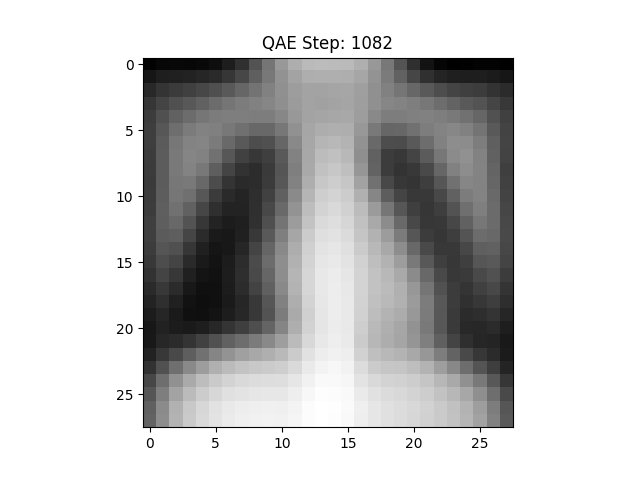
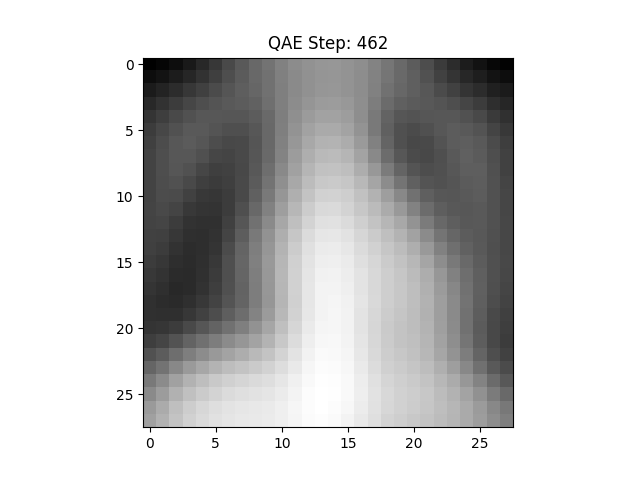
Update QAE+Classifier.

diff --git a/QAE_new.py b/QAE_new.py
@@ -24,8 +24,8 @@ from paddle_quantum.utils import pauli_str_to_matrix
 
 # Hyper_params
 hyper_params = {
-    'n_components': 4,
-    'n_qubits': 4,
+    'n_components': 3,
+    'n_qubits': 3,
     'n_z': 2
 }
 
@@ -116,6 +116,27 @@ def datapoints_transform_to_state(data, n_qubits):
     res = np.array(res)
     origin_res = np.array(origin_res)
     return res.astype("complex128"), origin_res
+
+# 经典 -> 量子数据编码器 (为分类器准备)
+def datapoints_transform_to_state_for_classifier(data, n_qubits):
+    """
+    :param data: shape [-1, 2]
+    :param n_qubits: the number of qubits to which the data transformed
+    :return: shape [-1, 1, 2 ^ n_qubits]
+    """
+    dim1, dim2 = data.shape
+    res = []
+    for sam in range(dim1):
+        res_state = 1.
+        zero_state = np.array([[1, 0]])
+        for i in range(n_qubits):
+            state_tmp=np.dot(zero_state, myRy(np.arcsin(data[sam][i%hyper_params['n_components']])).T)
+            state_tmp=np.dot(state_tmp, myRz(np.arccos(data[sam][i%hyper_params['n_components']] ** 2)).T)
+            res_state=np.kron(res_state, state_tmp)
+        res.append(res_state)
+
+    res = np.array(res)
+    return res.astype("complex128")
 
 
 def U_theta(theta, n, depth):  
@@ -221,6 +242,21 @@ class Net(fluid.dygraph.Layer):
 
         self.Ob = [Observable(2*self.n-self.n_z, i) for i in range(self.n)]
 
+    def encoder(self, state_in):
+        # 按照随机初始化的参数 theta 
+        Encoder = AE_encoder(self.theta1, n=self.n, z_n=self.n_z, depth=self.depth)
+        
+        # State in to input state
+        initial_state = np.array([1]+[0]*(2**(self.n-self.n_z)-1)).astype('complex128')
+        initial_state = fluid.dygraph.to_variable(initial_state)
+        input_state = kron(initial_state, state_in)
+
+        # 因为 Utheta是学习得到的，我们这里用行向量运算来提速而不会影响训练效果
+        state_z = matmul(input_state, Encoder)
+
+        return state_z
+
+
     # 定义向前传播机制、计算损失函数 和交叉验证正确率
     def forward(self, state_in, origin_state):
         """
@@ -236,8 +272,8 @@ class Net(fluid.dygraph.Layer):
         Ob = self.Ob
 
         # 按照随机初始化的参数 theta 
-        Encoder = AE_encoder(self.theta1, n=self.n, z_n=2, depth=self.depth)
-        Decoder = AE_decoder(self.theta2, n=self.n, z_n=2, depth=self.depth)
+        Encoder = AE_encoder(self.theta1, n=self.n, z_n=self.n_z, depth=self.depth)
+        Decoder = AE_decoder(self.theta2, n=self.n, z_n=self.n_z, depth=self.depth)
         
         # State in to input state
         initial_state = np.array([1]+[0]*(2**(self.n-self.n_z)-1)).astype('complex128')
@@ -255,81 +291,242 @@ class Net(fluid.dygraph.Layer):
         
         output_state = fluid.layers.concat(E_Z, axis=-1)
 
-        # Calcualate Fidelity
+        # Calcualate Loss
         loss = fluid.layers.mean((output_state-origin_state)**2)
 
-        return loss, output_state.numpy()
+        origin_len = fluid.layers.reduce_sum(origin_state**2, -1) ** 0.5
+        output_len = fluid.layers.reduce_sum(output_state**2, -1) ** 0.5
+        dot_product = fluid.layers.reduce_sum(output_state*origin_state, -1)
 
+        fidelity = fluid.layers.mean(dot_product/origin_len/output_len)
 
-step=1
-BATCH = 10
-EPOCH = 10
-total_loss = 0.0
+        return loss, fidelity, output_state.numpy()
+
+class Classifier(fluid.dygraph.Layer):
+    """
+    Construct the model net
+    """
+    def __init__(self,
+                 n,      # number of qubits
+                 n_z,
+                 depth,  # circuit depth
+                 net,
+                 seed_paras=1,
+                 dtype='float64'):
+        super(Classifier, self).__init__()
+
+        self.n = n
+        self.n_z = n_z
+        self.depth = depth
+        self.net = net
+        
+        # 初始化参数列表 theta，并用 [0, 2*pi] 的均匀分布来填充初始值
+        self.theta = self.create_parameter(
+            shape=[self.n_z, depth + 3],
+            attr=fluid.initializer.Uniform(
+                low=0.0, high=2*PI, seed=seed_paras),
+            dtype=dtype,
+            is_bias=False)
+        
+        # 初始化偏置 (bias)
+        self.bias = self.create_parameter(
+            shape=[1],
+            attr=fluid.initializer.NormalInitializer(
+                scale=0.01, seed=seed_paras + 10),
+            dtype=dtype,
+            is_bias=False)
+
+    # 定义向前传播机制、计算损失函数 和交叉验证正确率
+    def forward(self, state_in, label):
+        """
+        Args:
+            state_in: The input quantum state, shape [-1, 1, 2^n]
+            label: label for the input state, shape [-1, 1]
+        Returns:
+            The loss:
+                L = ((<Z> + 1)/2 + bias - label)^2
+        """
+        
+        state_z = self.net.encoder(state_in)
+        state_z = fluid.dygraph.to_variable(state_z.numpy())
+
+        # 我们需要将 Numpy array 转换成 Paddle 动态图模式中支持的 variable
+        unused_n = self.n - self.n_z
+        Ob = fluid.dygraph.to_variable(Observable(2*self.n-self.n_z, measure_index=unused_n))
+        label_pp = fluid.dygraph.to_variable(label)
+        # 按照随机初始化的参数 theta 
+        unused_n = self.n - self.n_z
+        Utheta = U_theta(self.theta, n=self.n_z, depth=self.depth)
+        empty_half = fluid.dygraph.to_variable(np.eye(2**unused_n).astype('complex128'))
+        Utheta = kron(empty_half, Utheta)
+        Utheta = kron(Utheta, empty_half)
+        
+        # 因为 Utheta是学习得到的，我们这里用行向量运算来提速而不会影响训练效果
+        state_out = matmul(state_z, Utheta)  # 维度 [-1, 1, 2 ** n]
+        
+        # 测量得到泡利 Z 算符的期望值 <Z>
+        E_Z = matmul(matmul(state_out, Ob),
+                     transpose(ComplexVariable(state_out.real, -state_out.imag),
+                               perm=[0, 2, 1]))
+        
+        # 映射 <Z> 处理成标签的估计值 
+        state_predict = E_Z.real[:, 0] * 0.5 + 0.5 + self.bias
+        loss = fluid.layers.reduce_mean((state_predict - label_pp) ** 2)
+
+        return loss, state_predict.numpy()
+
+def train_autoencoder():
+    print('Training Autoencoder...')
+    step=1
+    BATCH = 10
+    EPOCH = 1
+    total_loss = 0.0
+    total_fidelity = 0.0
+    fidelity_cnt = 0
+
+    with fluid.dygraph.guard():
+        opt = fluid.optimizer.AdamOptimizer(learning_rate=0.1, parameter_list=net.parameters())
+        
+        tr_ls = []
+
+        step_arr = []
+        loss_arr = []
+
+        for epoch in range(EPOCH):
+            print('Epoch', epoch)
+            epoch_ls = 0
+            data_len = 0
+            for i in range(train_len // BATCH):
+                step=step+1
+                inputx = QQQ_code[i * BATCH:(i + 1) * BATCH]
+                inputx=np.asarray(inputx)
+
+                trainx=np.array(inputx).astype('float64')
+                res, origin_res = datapoints_transform_to_state(trainx, n_qubits=hyper_params['n_qubits'])
+                input_data = fluid.dygraph.to_variable(res)
+                origin_res = fluid.dygraph.to_variable(origin_res)
+                #print(input_data)
+                inputy=(train_labels[i * BATCH:(i + 1) * BATCH].reshape(-1))  
+                #pdb.set_trace()
+                trainy=np.asarray(inputy).astype('float64')
+                #print('label:--',trainy)
+                loss, fidelity, state = net(state_in=input_data, origin_state=origin_res)
+                total_loss += loss.numpy()[0]
+                total_fidelity += fidelity.numpy()[0]
+                fidelity_cnt += 1
+
+                if i % 20 == 0:
+                    print(f'Epoch:{epoch}, Step:{i}, Loss:{loss.numpy()[0]}, Fidelity:{total_fidelity/fidelity_cnt}')
+
+                    fidelity_cnt = total_fidelity = 0
+                    
+                    # Show the pictures
+                    pic = transform_to_origin(state[0, 0])
+                    output_img = reduction_model.inverse_transform(pic).reshape(28, 28)
+                    plt.imshow(output_img, cmap='gray')
+                    plt.title(f'QAE Step: {step}')
+                    plt.savefig('ae.png')
+                    plt.close()
+
+                    plt.imshow(train_data[i*BATCH], cmap='gray')
+                    plt.title(f'Origin Step: {step}')
+                    plt.savefig('origin.png')
+                    plt.close()
+
+                    step_arr.append(step)
+                    loss_arr.append(loss.numpy()[0])
+                    plt.plot(step_arr, loss_arr)
+                    plt.title('Loss')
+                    plt.xlabel('Step')
+                    plt.ylabel('Loss')
+                    plt.savefig('loss.png')
+                    plt.close()
+
+                loss.backward()
+                opt.minimize(loss)
+                net.clear_gradients()
+                epoch_ls += loss.numpy().sum()
+                data_len += BATCH
+
+            tr_ls.append(epoch_ls / data_len)
+            print('Loss:', epoch_ls / data_len)
+        print(tr_ls)
+
+    return net
+
 
 with fluid.dygraph.guard():
     net = Net(n=hyper_params['n_qubits'], depth=3, n_z=hyper_params['n_z'], seed_paras=19)
-    opt = fluid.optimizer.AdamOptimizer(learning_rate=0.1, parameter_list=net.parameters())
+    print('Loading autoencoder...')
+    try:
+        state_dict, _ = fluid.load_dygraph(f'qae_net_{hyper_params["n_qubits"]}_{hyper_params["n_z"]}')
+        net.set_dict(state_dict)
+    except Exception as err:
+        print(err)
+        train_autoencoder()
+        fluid.save_dygraph(net.state_dict(), f'qae_net_{hyper_params["n_qubits"]}_{hyper_params["n_z"]}')
+
+    print('Finished. Training Classifier...')
+
+    classifier = Classifier(n=hyper_params['n_qubits'], depth=3, n_z=hyper_params['n_z'], seed_paras=19, net=net)
+    opt = fluid.optimizer.AdamOptimizer(learning_rate=0.05, parameter_list=classifier.parameters())
     
+    step=1
+    BATCH = 2
+    EPOCH = 1
+    total_loss = 0.0
+
     tr_ls = []
-
-    step_arr = []
-    loss_arr = []
-
     for epoch in range(EPOCH):
         print('Epoch', epoch)
         epoch_ls = 0
         data_len = 0
+        loss_arr = []
+
         for i in range(train_len // BATCH):
             step=step+1
-            #inputx=[]
-            #pdb.set_trace()
-            #inputx.append(QQQ_code[i * BATCH:(i + 1) * BATCH])
             inputx = QQQ_code[i * BATCH:(i + 1) * BATCH]
             inputx=np.asarray(inputx)
 
             trainx=np.array(inputx).astype('float64')
-            res, origin_res = datapoints_transform_to_state(trainx, n_qubits=hyper_params['n_qubits'])
-            input_data = fluid.dygraph.to_variable(res)
-            origin_res = fluid.dygraph.to_variable(origin_res)
+            input_data=fluid.dygraph.to_variable(datapoints_transform_to_state_for_classifier(trainx,n_qubits=hyper_params['n_qubits']))
             #print(input_data)
             inputy=(train_labels[i * BATCH:(i + 1) * BATCH].reshape(-1))  
             #pdb.set_trace()
             trainy=np.asarray(inputy).astype('float64')
             #print('label:--',trainy)
-            loss, state=net(state_in=input_data, origin_state=origin_res)
+            loss, state=classifier(state_in=input_data,label=trainy)
+
             total_loss += loss.numpy()[0]
-
-            if i % 20 == 0:
-                print(f'Epoch:{epoch}, Step:{i}, Loss:{loss.numpy()[0]}')
-                
-                # Show the pictures
-                pic = transform_to_origin(state[0, 0])
-                output_img = reduction_model.inverse_transform(pic).reshape(28, 28)
-                plt.imshow(output_img, cmap='gray')
-                plt.title(f'QAE Step: {step}')
-                plt.savefig('ae.png')
-                plt.close()
-
-                plt.imshow(train_data[i*BATCH], cmap='gray')
-                plt.title(f'Origin Step: {step}')
-                plt.savefig('origin.png')
-                plt.close()
-
-                step_arr.append(step)
-                loss_arr.append(loss.numpy()[0])
-                plt.plot(step_arr, loss_arr)
-                plt.title('Loss')
-                plt.xlabel('Step')
-                plt.ylabel('Loss')
-                plt.savefig('loss.png')
-                plt.close()
 
             loss.backward()
             opt.minimize(loss)
-            net.clear_gradients()
+            classifier.clear_gradients()
             epoch_ls += loss.numpy().sum()
             data_len += BATCH
-
+        
+      
+            if (i) % 200 ==0:
+                print('------------------------------TEST---------------------------------')
+                summary_test_correct=0
+                for j in tqdm(range(test_len // BATCH)):
+                    #lll=test_data[j]
+                    label_test = (test_labels[j * BATCH:(j + 1) * BATCH].reshape(-1))
+                    label_test = np.asarray(label_test).astype('float64')
+                    #input_test=[]
+                    #input_test.append(QQQ1_code[j])
+                    input_test = QQQ1_code[j * BATCH:(j + 1) * BATCH]
+                    input_test = np.asarray(input_test)
+                    input_test = np.array(input_test).astype('float64')
+                    #pdb.set_trace()
+                    input_test = fluid.dygraph.to_variable(datapoints_transform_to_state_for_classifier(input_test,n_qubits=hyper_params['n_qubits']))
+                    loss, state = classifier(state_in=input_test,label=label_test)
+                    is_correct = (np.abs(state.reshape(-1)-label_test)<0.5)+0
+                    is_correct = is_correct.sum()
+                    #pdb.set_trace()
+                    summary_test_correct = summary_test_correct+is_correct
+                print( epoch ,summary_test_correct, test_len)
+                #print( epoch ,acc, test_acc)
         tr_ls.append(epoch_ls / data_len)
         print('Loss:', epoch_ls / data_len)
     print(tr_ls)

diff --git a/Qclassifier-new.py b/Qclassifier-new.py
@@ -24,8 +24,8 @@ from paddle_quantum.utils import pauli_str_to_matrix
 
 # Hyper_params
 hyper_params = {
-    'n_components': 4,
-    'n_qubits': 4
+    'n_components': 2,
+    'n_qubits': 2
 }
 
 npz_file = np.load('datasets/pneumoniamnist.npz')
